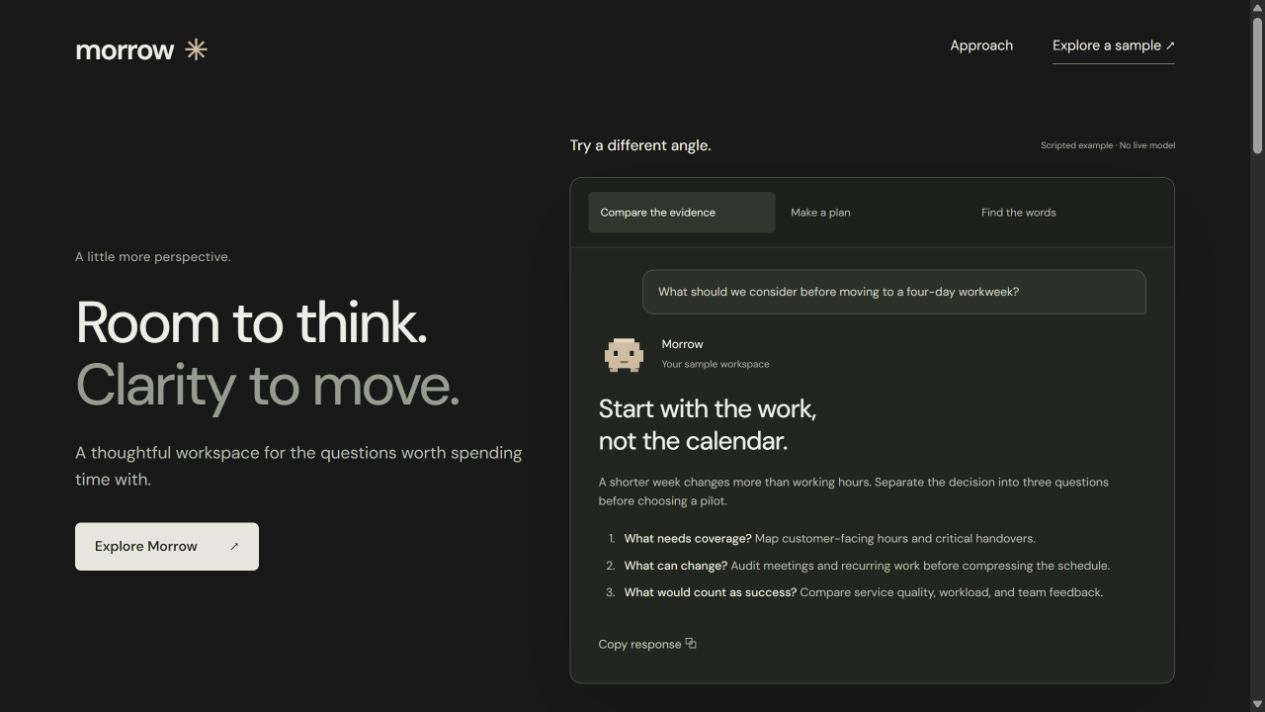
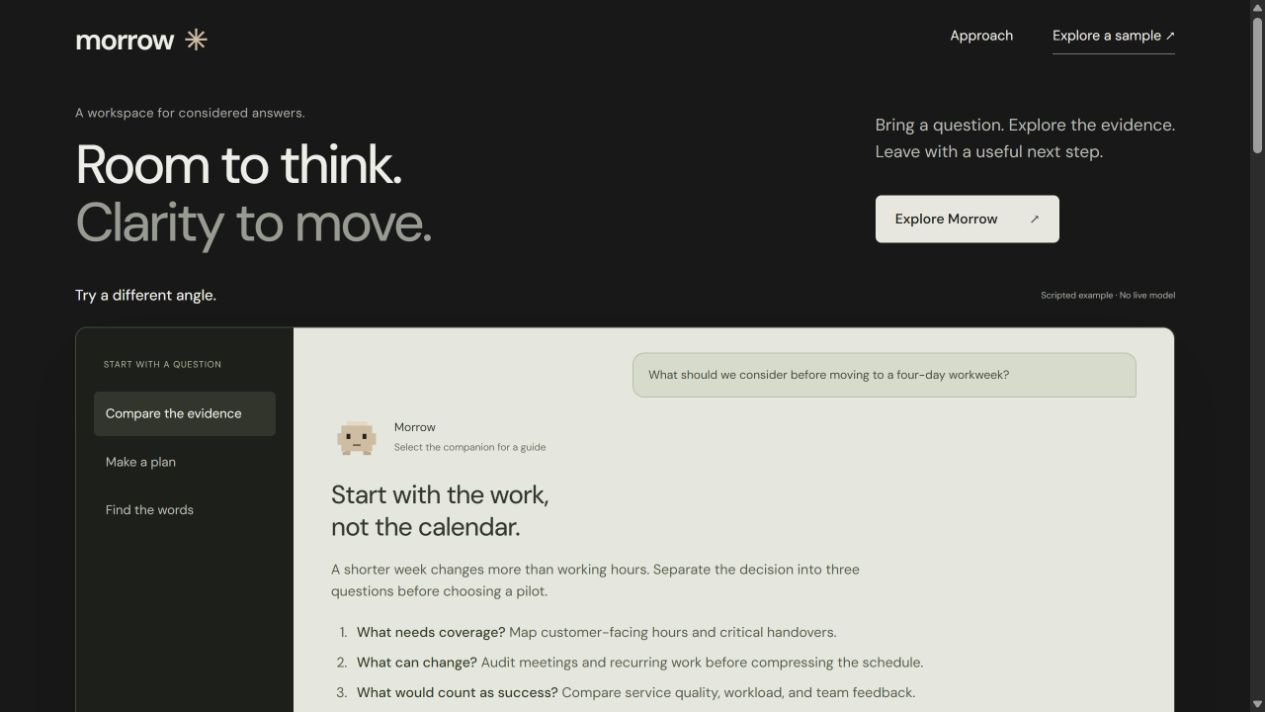
Give Morrow a wider workspace-led opening

diff --git a/examples/morrow/style.css b/examples/morrow/style.css
@@ -75,7 +75,7 @@ button {
   top: 10px;
 }
 .nav {
-  height: 100px;
+  height: 80px;
   display: flex;
   align-items: center;
   justify-content: space-between;
@@ -102,14 +102,18 @@ nav a:last-child {
   padding-bottom: 7px;
 }
 .opening {
-  display: grid;
-  grid-template-columns: minmax(0, 0.85fr) minmax(0, 1.15fr);
-  gap: 48px;
-  align-items: center;
-  padding-block: 35px 65px;
+  display: block;
+  padding-block: 24px 35px;
 }
 .hero {
-  padding: 0;
+  display: flex;
+  justify-content: space-between;
+  align-items: center;
+  gap: 45px;
+  padding: 0 0 32px;
+}
+.hero-summary {
+  max-width: 370px;
 }
 .eyebrow {
   color: var(--muted);
@@ -117,11 +121,11 @@ nav a:last-child {
   letter-spacing: 0.02em;
 }
 .hero h1 {
-  font-size: clamp(42px, 4.6vw, 66px);
+  font-size: clamp(42px, 4.3vw, 60px);
   font-weight: 450;
   line-height: 1.07;
   letter-spacing: -2.8px;
-  margin: 24px 0;
+  margin: 12px 0 0;
 }
 .hero h1 span {
   color: #969b91;
@@ -181,7 +185,7 @@ nav a:last-child {
 }
 .workspace {
   display: grid;
-  grid-template-columns: 1fr;
+  grid-template-columns: 220px minmax(0, 1fr);
   border: 1px solid #45483f;
   border-radius: 12px;
   overflow: hidden;
@@ -189,14 +193,14 @@ nav a:last-child {
   box-shadow: 0 30px 80px #0002;
 }
 .workspace aside {
-  padding: 14px 18px;
+  padding: 25px 18px;
   display: flex;
   flex-direction: column;
   border-bottom: 1px solid var(--line);
   background: #1d1f1b;
 }
 .sample-nav {
-  display: flex;
+  display: grid;
   gap: 4px;
 }
 .sample-nav button {
@@ -218,18 +222,20 @@ nav a:last-child {
   background: #2a2e25;
 }
 .conversation {
-  padding: 22px 28px;
-  min-height: 440px;
+  padding: 25px 38px;
+  min-height: 400px;
+  background: #e5e7dd;
+  color: #303a2b;
 }
 .prompt {
   margin: 0 0 34px auto;
   padding: 14px 20px;
-  border: 1px solid #4b4e44;
+  border: 1px solid #b7c1a9;
   border-radius: 12px 12px 3px 12px;
   max-width: 510px;
-  background: #2c3027;
+  background: #d6dcca;
   font-size: 14px;
-  color: #d2d6c9;
+  color: #3e4b35;
 }
 .response-heading {
   display: flex;
@@ -252,7 +258,7 @@ nav a:last-child {
 #response p,
 #response li {
   font-size: 14px;
-  color: #b8bdb0;
+  color: #526047;
 }
 #response p {
   max-width: 580px;
@@ -265,7 +271,7 @@ nav a:last-child {
   padding: 4px 0 4px 6px;
 }
 #response strong {
-  color: #e0e4d8;
+  color: #303e26;
   font-weight: 500;
 }
 .response-actions {
@@ -279,11 +285,11 @@ nav a:last-child {
   background: none;
   padding: 0;
   font-size: 12px;
-  color: #c4c9bc;
+  color: #46543b;
 }
 .response-actions span {
   font-size: 12px;
-  color: var(--muted);
+  color: #46543b;
 }
 .story {
   margin-top: 120px;
@@ -706,8 +712,6 @@ footer > a:last-child {
   }
 }
 
-.workspace-brand,
-.workspace aside > p,
 .sample-nav button {
   flex: 1;
   font-size: 11px;
@@ -718,11 +722,11 @@ footer > a:last-child {
 }
 .response-heading small {
   font-size: 10px;
-  color: var(--muted);
+  color: #65715a;
 }
 .sample-guide {
   padding: 12px;
-  background: #343b2b;
+  background: #d2dbc4;
   border-radius: 5px;
   font-size: 12px;
   margin-bottom: 15px;
@@ -740,7 +744,7 @@ footer > a:last-child {
 }
 #response p,
 #response li {
-  font-size: 12px;
+  font-size: 14px;
 }
 #response ol {
   margin: 15px 0;
@@ -755,9 +759,11 @@ footer > a:last-child {
   font-size: 9px;
 }
 @media (max-width: 900px) {
-  .opening {
+  .hero {
     gap: 28px;
-    grid-template-columns: minmax(0, 0.8fr) minmax(0, 1.2fr);
+  }
+  .hero-summary {
+    max-width: 300px;
   }
   .hero h1 {
     font-size: 45px;
@@ -776,7 +782,11 @@ footer > a:last-child {
     padding-block: 20px 45px;
   }
   .hero {
-    padding: 0 0 30px;
+    display: block;
+    padding: 0 0 28px;
+  }
+  .hero-summary {
+    max-width: none;
   }
   .hero h1 {
     font-size: 42px;
@@ -808,6 +818,62 @@ footer > a:last-child {
   .mascot-button {
     width: 48px;
     height: 44px;
+  }
+  .hero-copy {
+    width: 100%;
+  }
+}
+
+.workspace-label {
+  font-size: 9px;
+  letter-spacing: 0.08em;
+  color: #a8b29a;
+  padding: 5px 10px 20px;
+}
+.workspace-note {
+  margin-top: auto;
+  padding: 30px 10px 5px;
+  color: #939f86;
+  font-size: 12px;
+}
+.workspace aside {
+  border-bottom: 0;
+}
+.sample-nav button {
+  font-size: 13px;
+}
+.conversation :focus-visible {
+  outline-color: #596e43;
+}
+.response-heading {
+  margin-bottom: 18px;
+}
+.story {
+  margin-top: 65px;
+}
+@media (max-width: 700px) {
+  .hero h1 {
+    font-size: 40px;
+  }
+  .hero-summary {
+    margin-top: 16px;
+  }
+  .workspace-label,
+  .workspace-note {
+    display: none;
+  }
+  .sample-nav button {
+    font-size: 11px;
+  }
+  .conversation {
+    padding: 22px 20px;
+  }
+  #response p,
+  #response li {
+    font-size: 13px;
+  }
+  .workspace aside {
+    border-bottom: 1px solid var(--line);
   }
   .hero-copy {
     width: 100%;

diff --git a/examples/morrow/index.html b/examples/morrow/index.html
@@ -26,11 +26,13 @@
       <div class="opening wrap">
         <section class="hero">
           <div class="hero-copy">
-            <p class="eyebrow">A little more perspective.</p>
+            <p class="eyebrow">A workspace for considered answers.</p>
             <h1>Room to think.<br /><span>Clarity to move.</span></h1>
+          </div>
+          <div class="hero-summary">
             <p class="intro">
-              A thoughtful workspace for the questions<br class="wide" />
-              worth spending time with.
+              Bring a question. Explore the evidence.<br />Leave with a useful
+              next step.
             </p>
             <a class="primary" href="#demo"
               >Explore Morrow <span aria-hidden="true">↗</span></a
@@ -44,6 +46,7 @@
           </div>
           <div class="workspace">
             <aside>
+              <p class="workspace-label">START WITH A QUESTION</p>
               <div class="sample-nav">
                 <button data-example="research" aria-pressed="true" disabled>
                   Compare the evidence <span>↗</span></button
@@ -53,6 +56,9 @@
                   Find the words <span>↗</span>
                 </button>
               </div>
+              <p class="workspace-note">
+                Three ways to move<br />a thought forward.
+              </p>
             </aside>
             <div class="conversation">
               <p id="prompt" class="prompt">
@@ -83,7 +89,11 @@
                       <path fill="#80664a" d="M34 47h12v3H34z" />
                     </g>
                   </svg></button
-                ><span>Morrow<br /><small>Your sample workspace</small></span>
+                ><span
+                  >Morrow<br /><small
+                    >Select the companion for a guide</small
+                  ></span
+                >
               </div>
               <p id="sample-guide" class="sample-guide" hidden>
                 Choose a sample to explore a different task. Each response is
